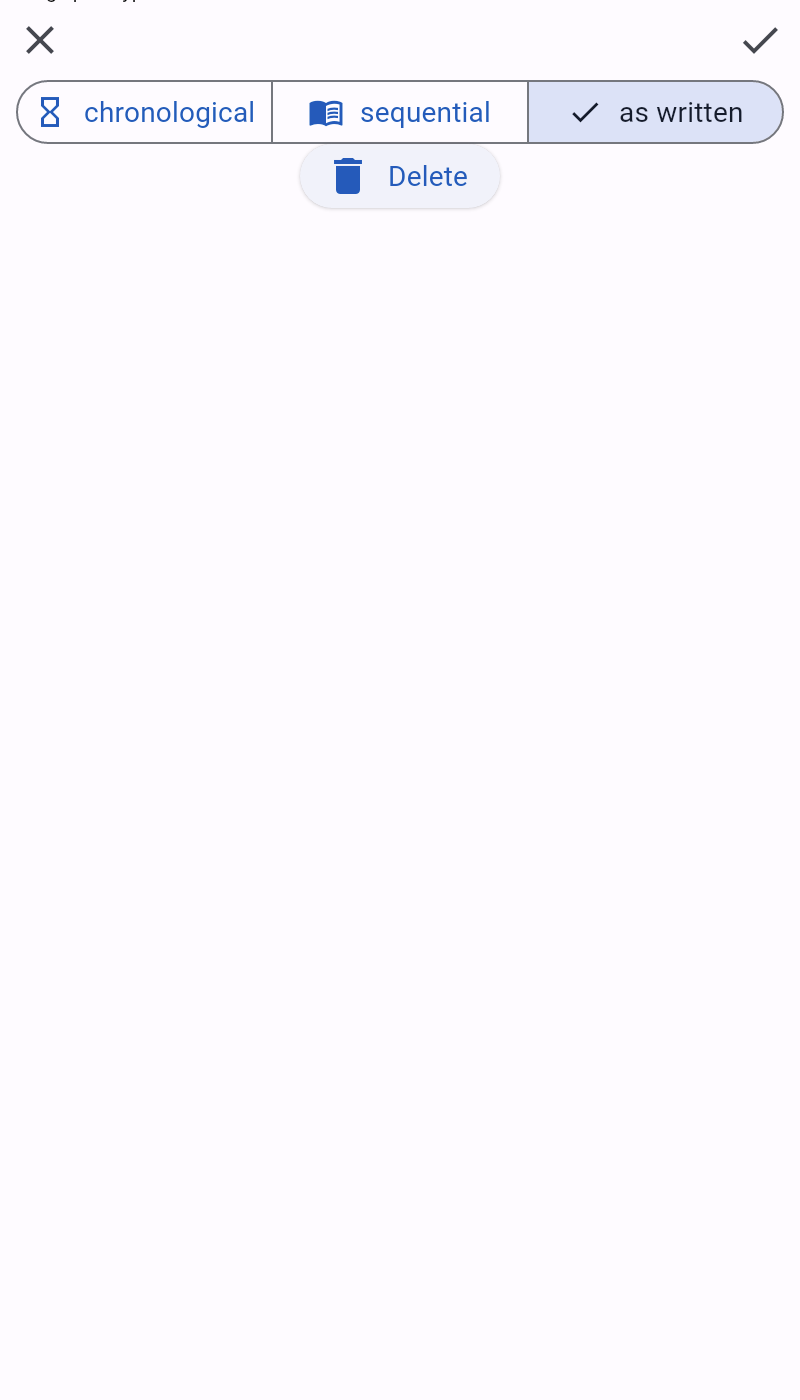
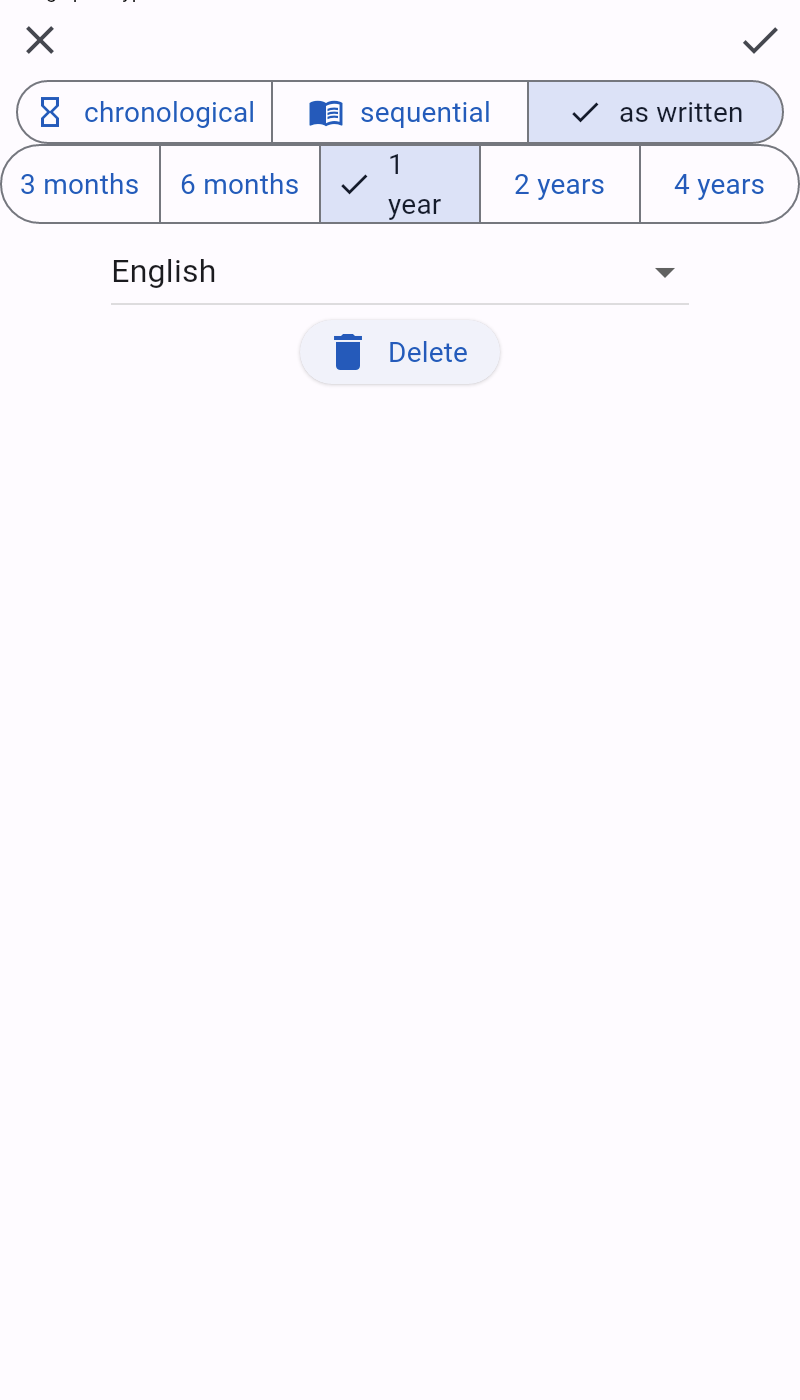
plans: add feature to edit the language of a plan (#58)

diff --git a/integration_test/app_test.dart b/integration_test/app_test.dart
@@ -20,9 +20,9 @@ import 'package:nwt_reading/src/schedules/repositories/schedules_repository.dart
 import 'package:nwt_reading/src/settings/repositories/theme_mode_repository.dart';
 import 'package:nwt_reading/src/settings/stories/theme_mode_story.dart';
 
-import '../test/test_plans.dart';
-import 'take_screenshot.dart';
 import 'settled_tester.dart';
+import 'take_screenshot.dart';
+import 'test_plans.dart';
 
 void main() async {
   final deepCollectionEquals = const DeepCollectionEquality().equals;
@@ -250,6 +250,47 @@ void main() async {
       expect(plan?.scheduleKey.duration, duration);
       expect(plan?.bookmark, const Bookmark(dayIndex: 0, sectionIndex: -1));
     }
+  });
+
+  testWidgets('Change plan language', (tester) async {
+    final providerContainer =
+        await SettledTester(tester, sharedPreferences: testPlansPreferences)
+            .providerContainer;
+    await tester.scrollUntilVisible(
+      find.byKey(Key(
+          'plan-${providerContainer.read(plansNotifier).valueOrNull?.plans.last.id}')),
+      500.0,
+    );
+    await tester.pumpAndSettle();
+    await tester.tap(find.byType(PlanCard).first);
+    await tester.pumpAndSettle();
+    await tester.tap(find.byIcon(Icons.edit));
+    await tester.pumpAndSettle();
+    await tester.tap(find.byKey(const Key('language')));
+    await tester.pumpAndSettle(const Duration(seconds: 1));
+    await tester.pumpAndSettle(const Duration(seconds: 1));
+    await tester.tap(find.byKey(const Key('language-es')).last);
+    await tester.pumpAndSettle(const Duration(seconds: 1));
+    await tester.pumpAndSettle();
+    await tester.tap(find.byIcon(Icons.close));
+    await tester.pumpAndSettle();
+
+    var plan = providerContainer.read(plansNotifier).valueOrNull?.plans.first;
+    expect(plan?.language, 'en');
+
+    await tester.tap(find.byIcon(Icons.edit));
+    await tester.pumpAndSettle();
+    await tester.tap(find.byKey(const Key('language')));
+    await tester.pumpAndSettle(const Duration(seconds: 1));
+    await tester.pumpAndSettle(const Duration(seconds: 1));
+    await tester.tap(find.byKey(const Key('language-es')).last);
+    await tester.pumpAndSettle(const Duration(seconds: 1));
+    await tester.pumpAndSettle();
+    await tester.tap(find.byIcon(Icons.done));
+    await tester.pumpAndSettle();
+
+    plan = providerContainer.read(plansNotifier).valueOrNull?.plans.first;
+    expect(plan?.language, 'es');
   });
 
   testWidgets('Cancel edit plan', (tester) async {

diff --git a/lib/src/plans/presentations/plan_edit_dialog.dart b/lib/src/plans/presentations/plan_edit_dialog.dart
@@ -1,5 +1,6 @@
 import 'package:flutter/material.dart';
 import 'package:flutter_riverpod/flutter_riverpod.dart';
+import 'package:nwt_reading/src/bible_languages/entities/bible_languages.dart';
 import 'package:nwt_reading/src/plans/presentations/plans_page.dart';
 import 'package:nwt_reading/src/plans/stories/plan_edit_story.dart';
 import 'package:nwt_reading/src/schedules/entities/schedules.dart';
@@ -35,6 +36,7 @@ class PlanEditDialog extends ConsumerWidget {
           ]),
           PlanTypeSegmentedButton(planId),
           PlanDurationSegmentedButton(planId),
+          PlanLanguageDropdownButton(planId),
           ElevatedButton.icon(
               onPressed: () {
                 planEdit.delete();
@@ -109,6 +111,39 @@ class PlanDurationSegmentedButton extends ConsumerWidget {
       onSelectionChanged: (Set<ScheduleDuration> newSelection) {
         planEdit.updateScheduleDuration(newSelection.single);
       },
+    );
+  }
+}
+
+class PlanLanguageDropdownButton extends ConsumerWidget {
+  const PlanLanguageDropdownButton(this.planId, {super.key});
+
+  final String planId;
+
+  @override
+  Widget build(BuildContext context, WidgetRef ref) {
+    ref.watch(planEditFamilyNotifier(planId));
+    final planEdit = ref.watch(planEditFamilyNotifier(planId).notifier);
+    final bibleLanguages = ref.watch(bibleLanguagesNotifier).valueOrNull;
+
+    return DropdownButton<String>(
+      key: const Key('language'),
+      value: bibleLanguages?.bibleLanguages[planEdit.plan.language] == null
+          ? 'en'
+          : planEdit.plan.language,
+      onChanged: (String? value) {
+        if (value != null) planEdit.updateLanguage(value);
+      },
+      items: bibleLanguages?.bibleLanguages.entries
+          .map((MapEntry<String, BibleLanguage> bibleLanguage) =>
+              DropdownMenuItem<String>(
+                value: bibleLanguage.key,
+                child: Text(
+                  bibleLanguage.value.name,
+                  key: Key('language-${bibleLanguage.key}'),
+                ),
+              ))
+          .toList(),
     );
   }
 }

diff --git a/test/test_plans.dart b/test/test_plans.dart
@@ -36,7 +36,7 @@ final Plans testPlans = Plans(const [
           type: ScheduleType.written,
           duration: ScheduleDuration.y1,
           version: "1.0"),
-      language: "ro",
+      language: "en",
       bookmark: Bookmark(dayIndex: 364, sectionIndex: 1),
       withEndDate: true,
       showEvents: true,
@@ -46,7 +46,7 @@ final Plans testPlans = Plans(const [
 const List<String> testPlansSerialized = [
   '{"id":"5aa4de9e-036b-42cd-8bcb-a92cae46db27","name":"Chronological","scheduleKey":{"type":0,"duration":2,"version":"1.0"},"language":"en","bookmark":{"dayIndex":0,"sectionIndex":-1},"withEndDate":true,"showEvents":true,"showLocations":true}',
   '{"id":"0da6b8a7-ccd4-4270-8058-9e30a3f55ceb","name":"Sequential","scheduleKey":{"type":1,"duration":2,"version":"1.0"},"language":"de","bookmark":{"dayIndex":115,"sectionIndex":0},"withEndDate":true,"showEvents":true,"showLocations":true}',
-  '{"id":"2dab49f3-aecf-4aba-9e91-d75c297d4b7e","name":"Written","scheduleKey":{"type":2,"duration":2,"version":"1.0"},"language":"ro","bookmark":{"dayIndex":364,"sectionIndex":1},"withEndDate":true,"showEvents":true,"showLocations":true}'
+  '{"id":"2dab49f3-aecf-4aba-9e91-d75c297d4b7e","name":"Written","scheduleKey":{"type":2,"duration":2,"version":"1.0"},"language":"en","bookmark":{"dayIndex":364,"sectionIndex":1},"withEndDate":true,"showEvents":true,"showLocations":true}'
 ];
 
 final testPlansPreferences = {plansPreferenceKey: testPlansSerialized};

diff --git a/lib/src/plans/stories/plan_edit_story.dart b/lib/src/plans/stories/plan_edit_story.dart
@@ -53,6 +53,12 @@ class PlanEdit extends FamilyNotifier<Plan, String?> {
     save();
   }
 
+  void updateLanguage(String language) {
+    if (language != state.language) {
+      state = state.copyWith(language: language);
+    }
+  }
+
   void updateScheduleDuration(ScheduleDuration scheduleDuration) {
     if (scheduleDuration != state.scheduleKey.duration) {
       state = state.copyWith(

diff --git a/integration_test/test_plans.dart b/integration_test/test_plans.dart
@@ -1,0 +1,1 @@
+../test/test_plans.dart
